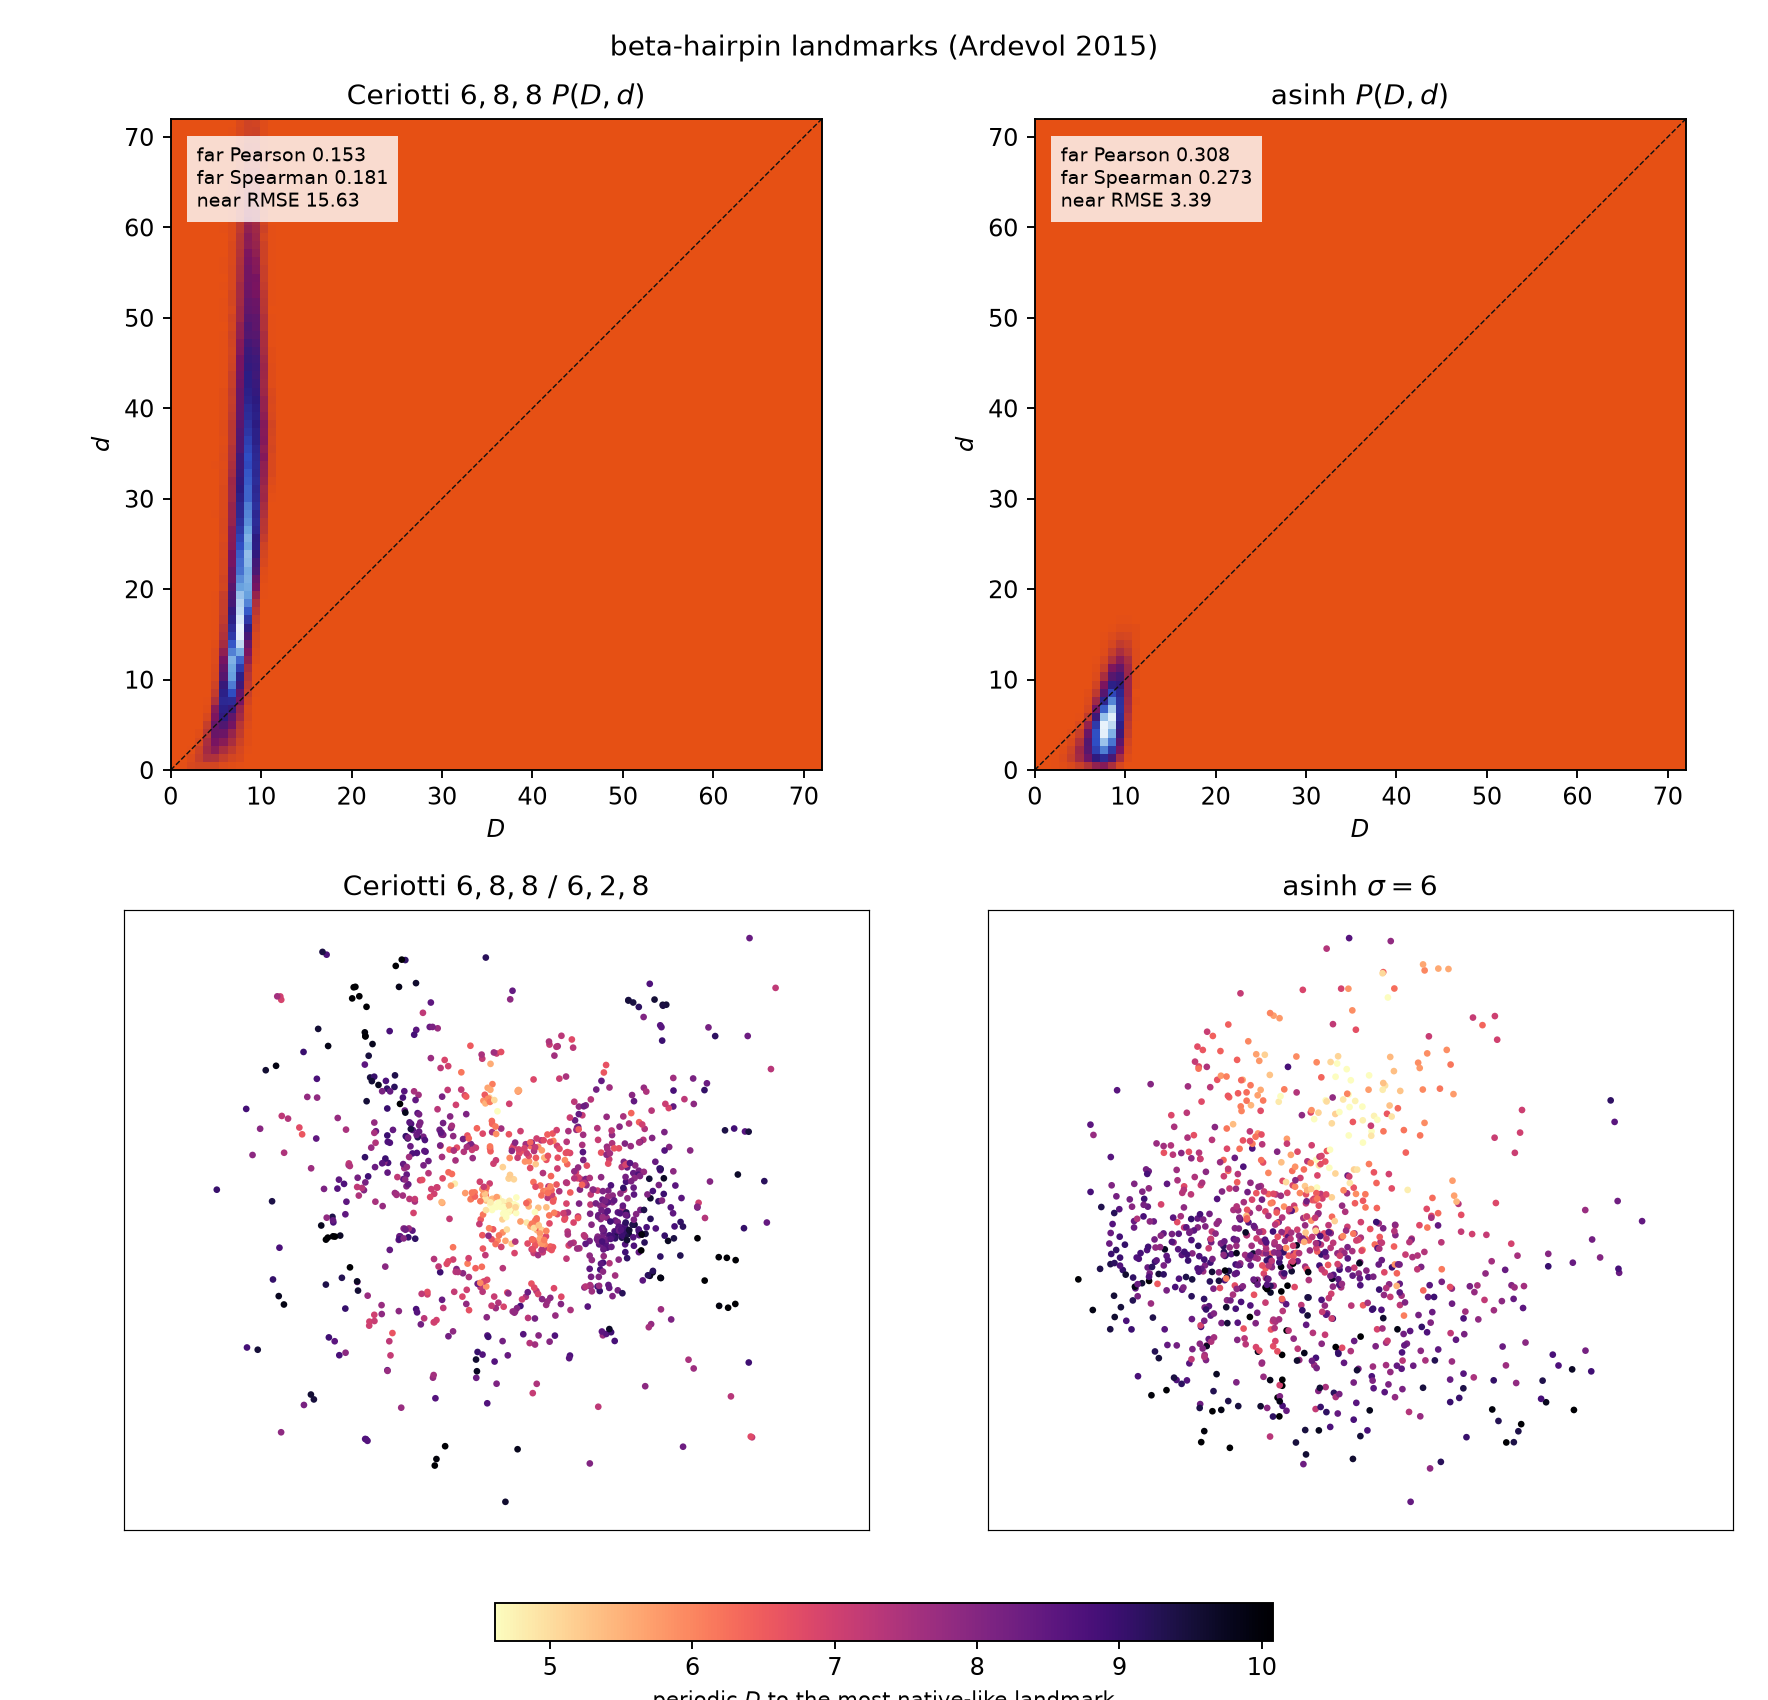
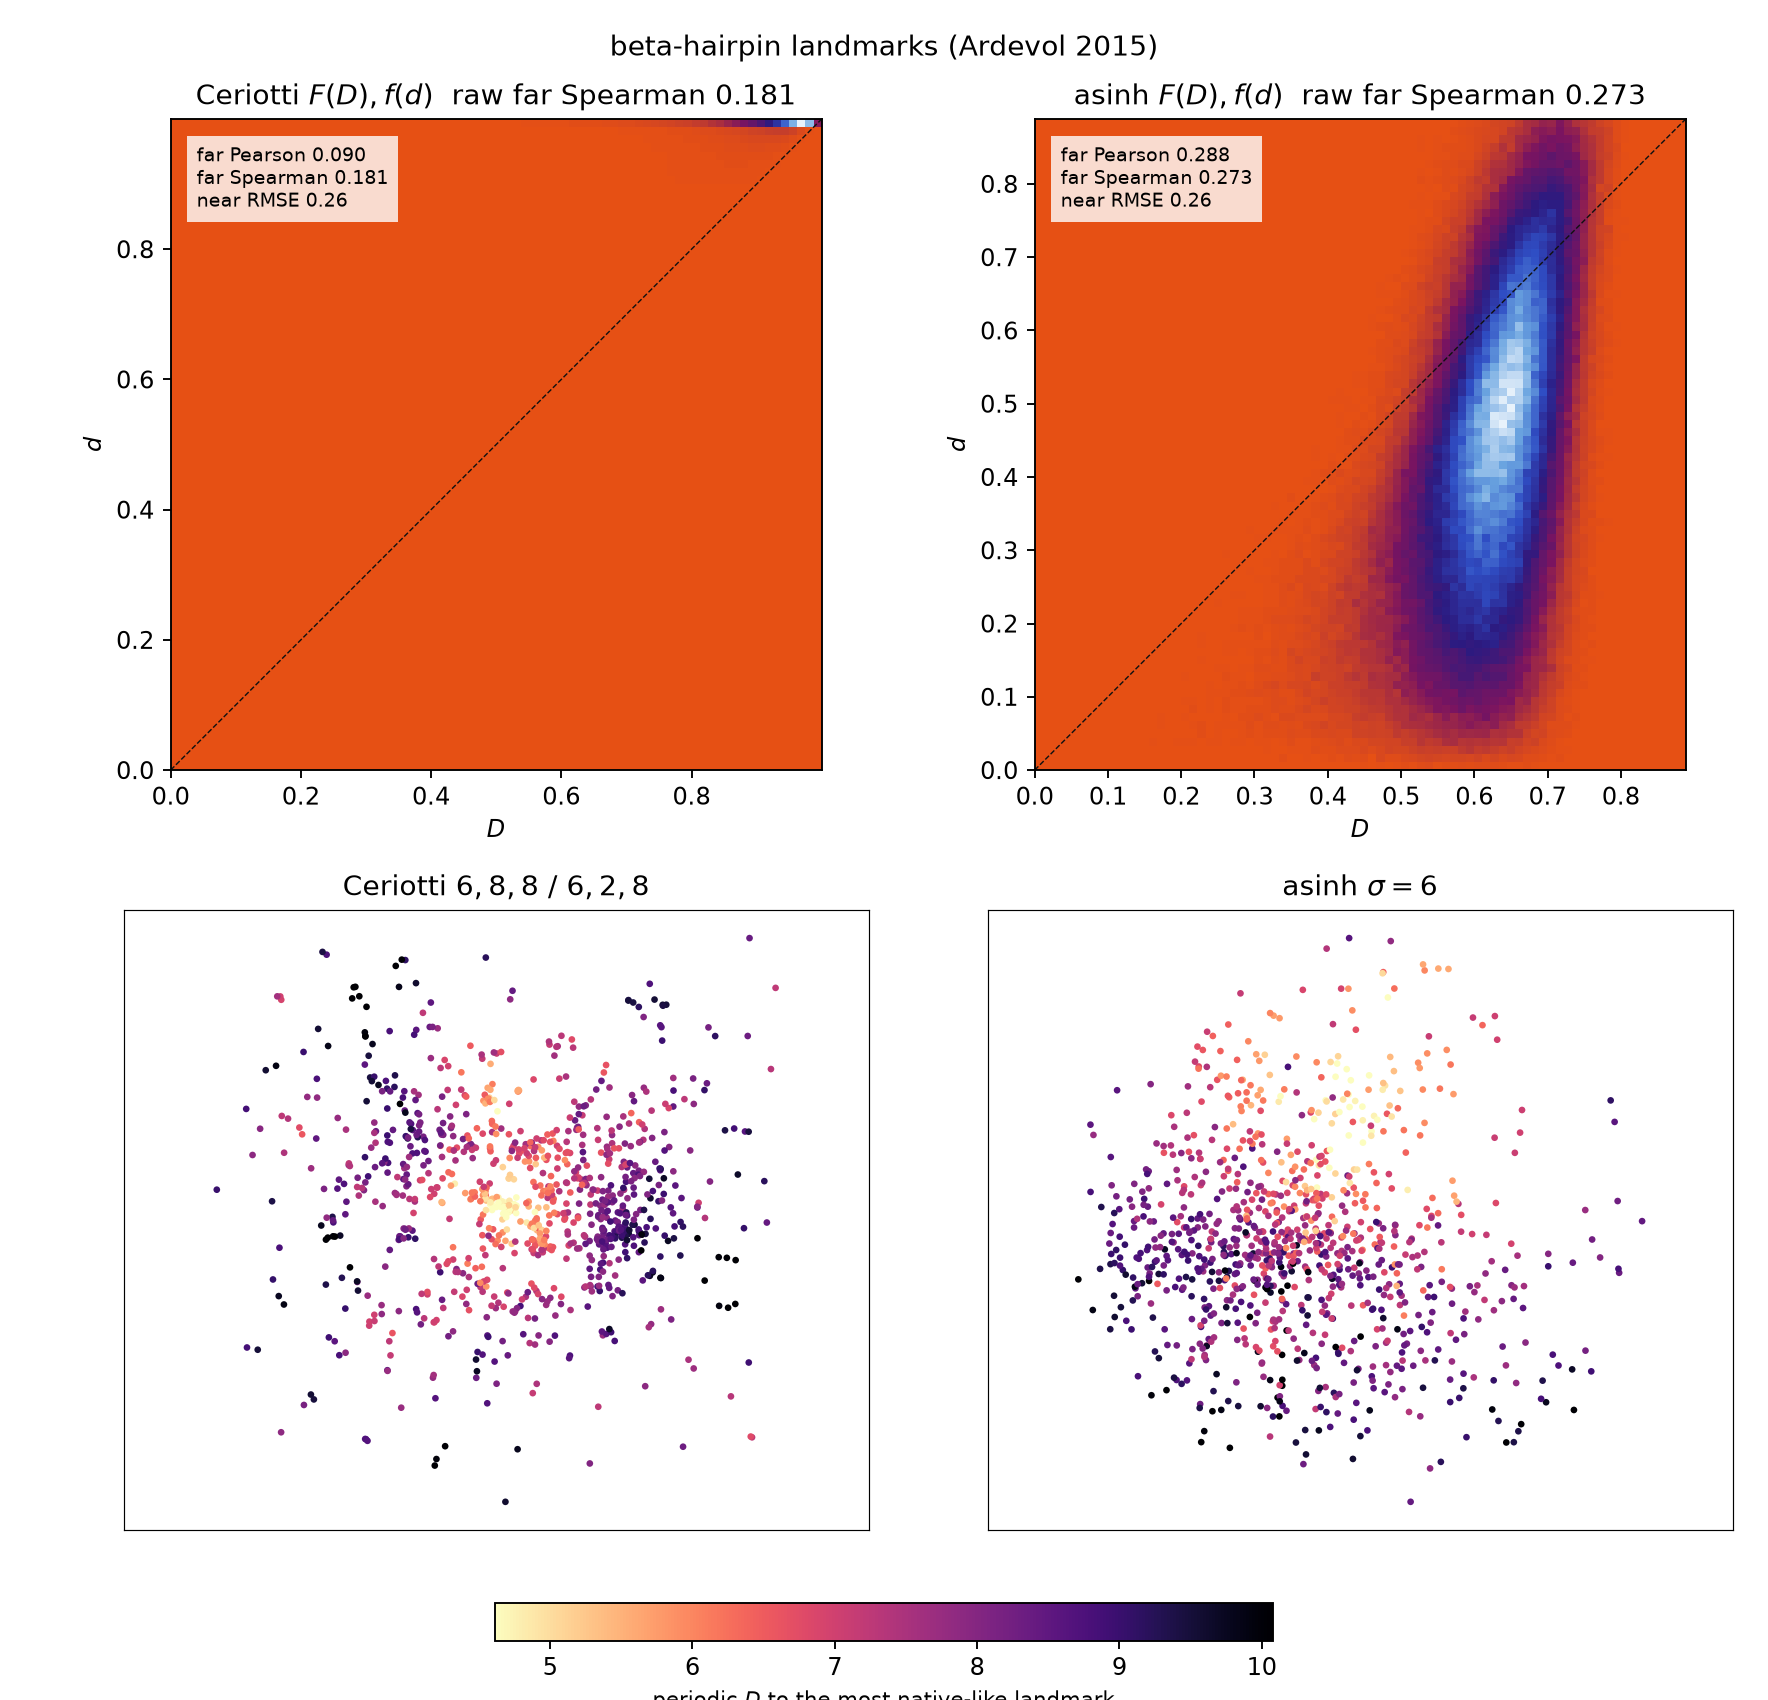
feat: wire Wasserstein-1 into chi embed; plot hairpin in F-space
--w1 on embed --pacmap was a no-op for standard chi. Hairpin P is
F(D) versus f(d), the residual chi actually matches, so the sigmoid
wall and the asinh diagonal share a scale.

diff --git a/scripts/compare_protein_paper_pd.py b/scripts/compare_protein_paper_pd.py
@@ -87,12 +87,18 @@ def main() -> None:
     s1 = scores(D, d1)
     print("Ceriotti protein pear_far spear_far rm_near", s0)
     print("asinh protein pear_far spear_far rm_near", s1)
-    mx = max(
-        float(np.quantile(D, 0.99)),
-        float(np.quantile(d0, 0.99)),
-        float(np.quantile(d1, 0.99)),
-    )
-    print("shared P(D,d) axis max", mx)
+
+    def xsig(x, sigma, a, b):
+        u = np.clip(np.asarray(x, dtype=float) / sigma, 0.0, None)
+        return 1.0 - (1.0 + (2.0 ** (a / b) - 1.0) * np.power(u, a)) ** (-b / a)
+
+    def asinh_f(x, sigma=6.0):
+        return np.arcsinh(np.asarray(x, dtype=float) / sigma) / (2.0 * np.arcsinh(1.0))
+
+    # Residual space of chi: F(D) vs f(d). Raw D vs d hides asinh because
+    # HD D ~ 70 and asinh LD d ~ 12.
+    FD0, fd0 = xsig(D, 6.0, 8.0, 8.0), xsig(d0, 6.0, 2.0, 8.0)
+    FD1, fd1 = asinh_f(D), asinh_f(d1)
     native = hd[np.argmin(np.linalg.norm(pub, axis=1))]
     color = period_l2(hd, native)
     vlo, vhi = np.quantile(color, [0.02, 0.98])
@@ -115,8 +121,20 @@ def main() -> None:
     ax01 = fig.add_subplot(gs[0, 1])
     ax10 = fig.add_subplot(gs[1, 0])
     ax11 = fig.add_subplot(gs[1, 1])
-    caf.pd_hist(ax00, D, d0, r"Ceriotti $6,8,8$ $P(D,d)$", mx=mx)
-    caf.pd_hist(ax01, D, d1, r"asinh $P(D,d)$", mx=mx)
+    # Each panel uses its own range. A shared max of ~72 shrinks the
+    # asinh cloud to a corner and hides the diagonal.
+    caf.pd_hist(
+        ax00,
+        FD0,
+        fd0,
+        rf"Ceriotti $F(D),f(d)$  raw far Spearman {s0[1]:.3f}",
+    )
+    caf.pd_hist(
+        ax01,
+        FD1,
+        fd1,
+        rf"asinh $F(D),f(d)$  raw far Spearman {s1[1]:.3f}",
+    )
     sc = None
     for ax, xy, title in (
         (ax10, pub, r"Ceriotti $6,8,8$ / $6,2,8$"),

diff --git a/src/bin/landfold.rs b/src/bin/landfold.rs
@@ -737,6 +737,8 @@ fn main() -> landfold::Result<()> {
                 ));
             } else if l1 {
                 Box::new(L1)
+            } else if w1 {
+                Box::new(Wasserstein1)
             } else if dot {
                 Box::new(landfold::Dot)
             } else if sphere != 0.0 {
